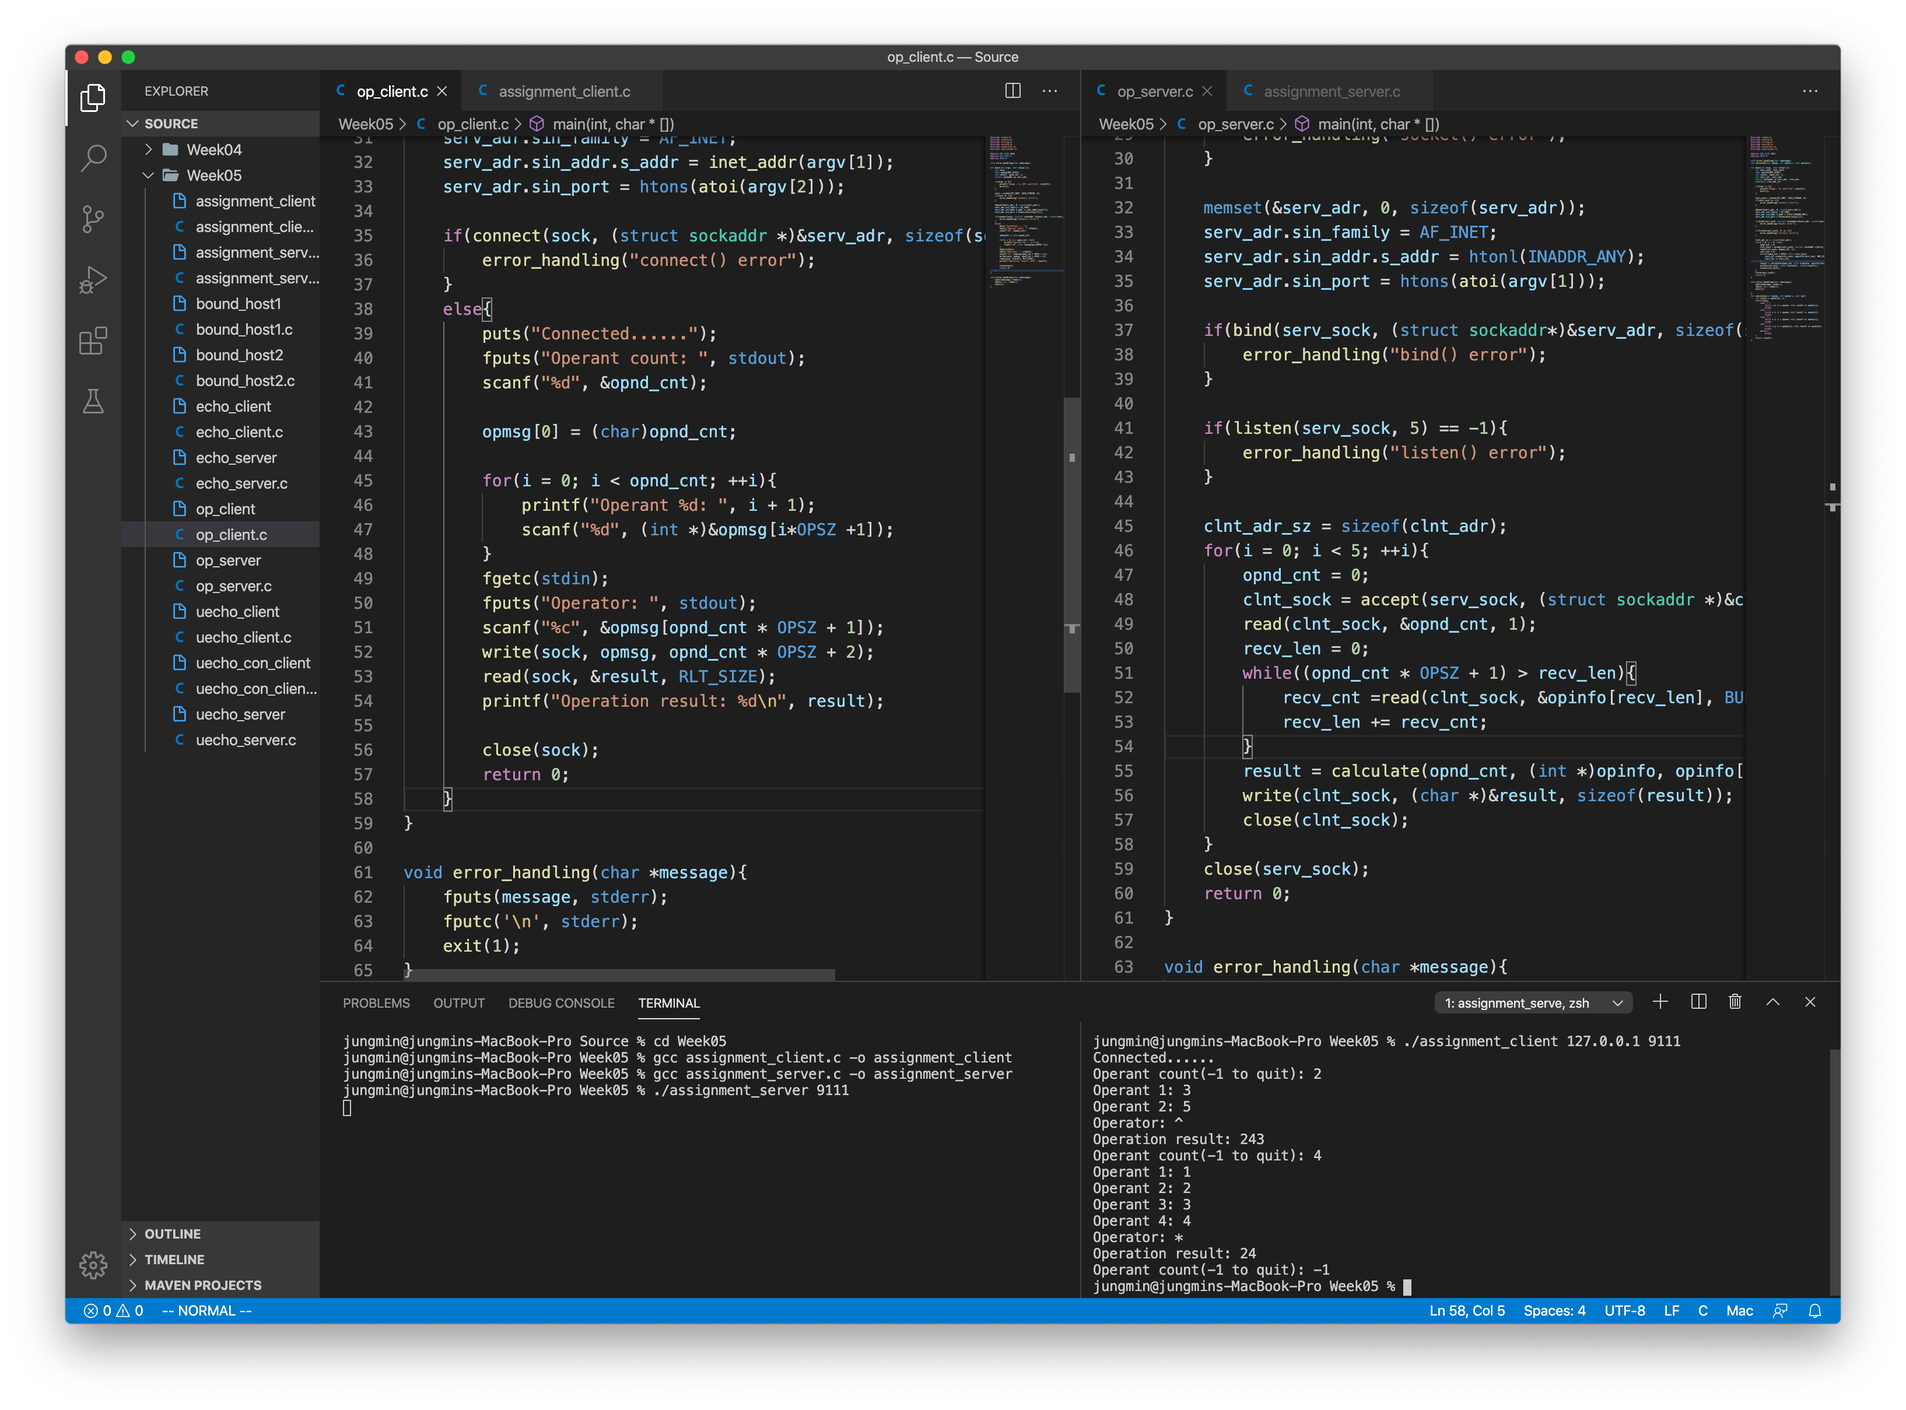
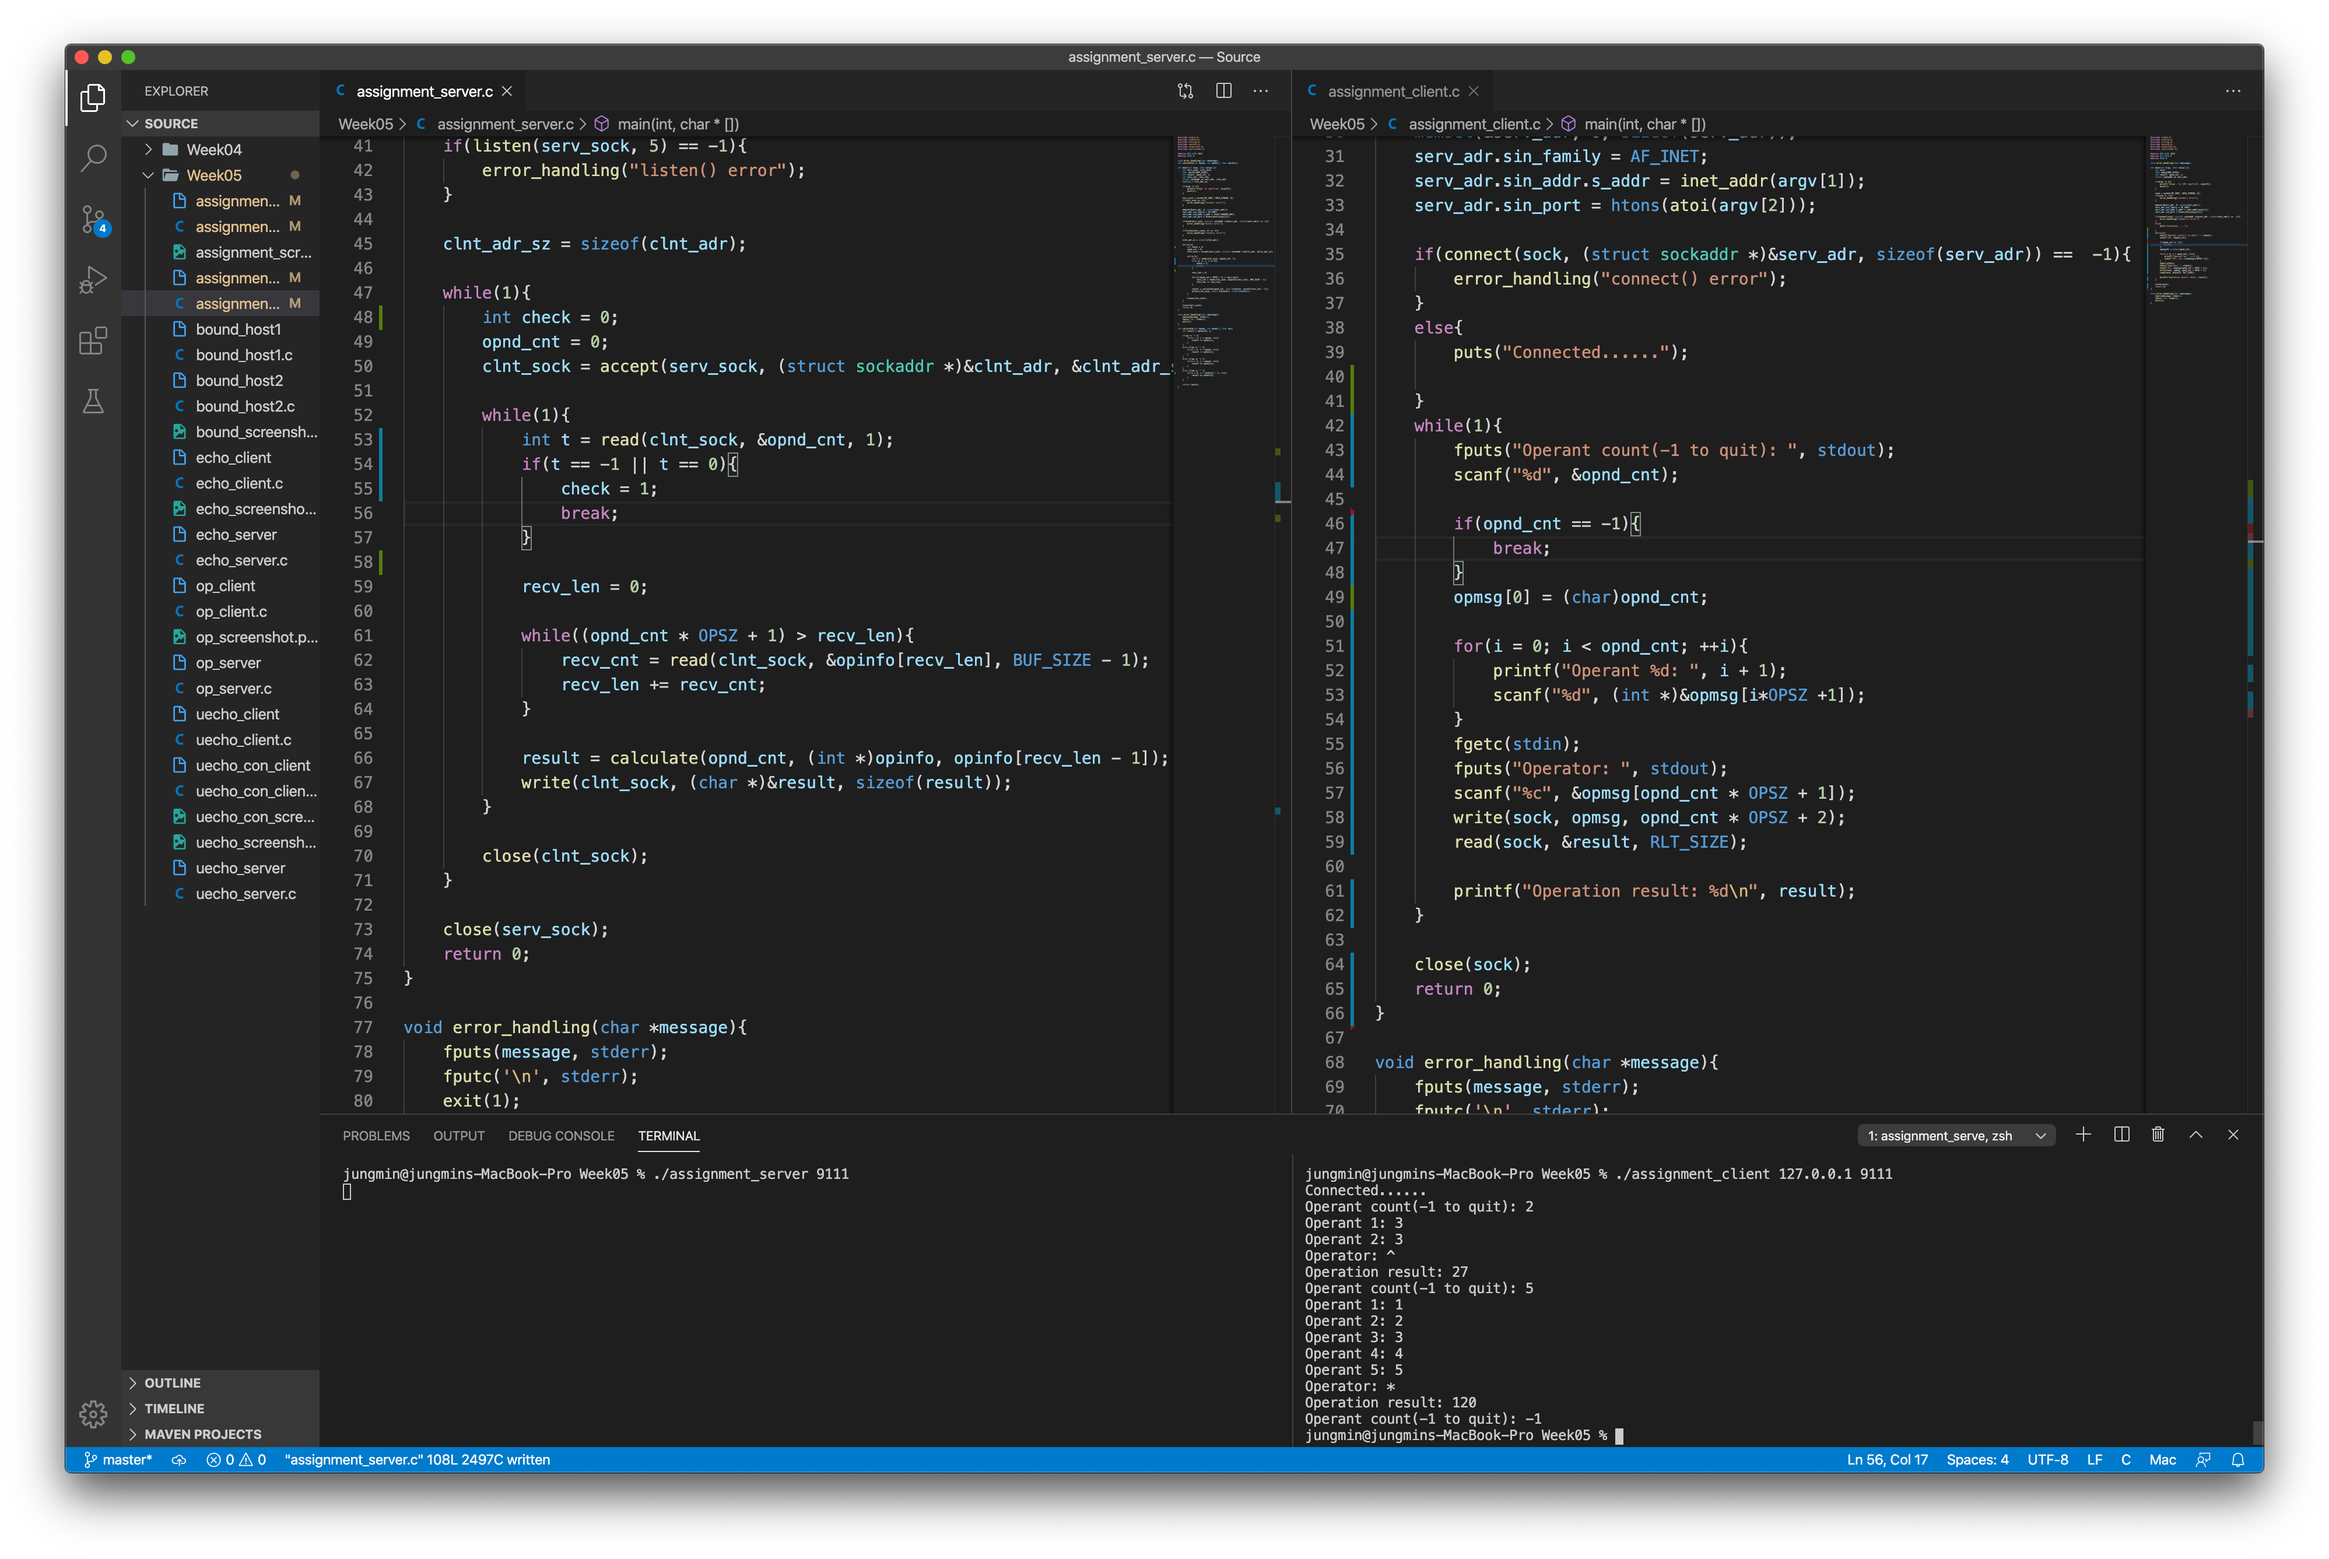
Week 5 assignment final

diff --git a/Week05/assignment_client.c b/Week05/assignment_client.c
@@ -37,33 +37,32 @@ int main(int argc, char *argv[]){
     }
     else{
         puts("Connected......");
-        while(1){
-            fputs("Operant count(-1 to quit): ", stdout);
-            scanf("%d", &opnd_cnt);
 
-            opmsg[0] = (char)opnd_cnt;
-
-            if(opnd_cnt == -1){
-                write(sock, opmsg, 1);
-                break;
-            }
-            
-            for(i = 0; i < opnd_cnt; ++i){
-                printf("Operant %d: ", i + 1);
-                scanf("%d", (int *)&opmsg[i*OPSZ +1]);
-            }
-            fgetc(stdin);
-            fputs("Operator: ", stdout);
-            scanf("%c", &opmsg[opnd_cnt * OPSZ + 1]);
-            write(sock, opmsg, opnd_cnt * OPSZ + 2);
-            read(sock, &result, RLT_SIZE);
-
-            printf("Operation result: %d\n", result);
-        }
-
-        close(sock);
-        return 0;
     }
+    while(1){
+        fputs("Operant count(-1 to quit): ", stdout);
+        scanf("%d", &opnd_cnt);
+
+        if(opnd_cnt == -1){
+            break;
+        }
+        opmsg[0] = (char)opnd_cnt;
+
+        for(i = 0; i < opnd_cnt; ++i){
+            printf("Operant %d: ", i + 1);
+            scanf("%d", (int *)&opmsg[i*OPSZ +1]);
+        }
+        fgetc(stdin);
+        fputs("Operator: ", stdout);
+        scanf("%c", &opmsg[opnd_cnt * OPSZ + 1]);
+        write(sock, opmsg, opnd_cnt * OPSZ + 2);
+        read(sock, &result, RLT_SIZE);
+
+        printf("Operation result: %d\n", result);
+    }
+
+    close(sock);
+    return 0;
 }
 
 void error_handling(char *message){

diff --git a/Week05/assignment_server.c b/Week05/assignment_server.c
@@ -45,15 +45,17 @@ int main(int argc, char *argv[]){
     clnt_adr_sz = sizeof(clnt_adr);
 
     while(1){
+        int check = 0;
         opnd_cnt = 0;
         clnt_sock = accept(serv_sock, (struct sockaddr *)&clnt_adr, &clnt_adr_sz);
 
         while(1){
-            read(clnt_sock, &opnd_cnt, 1);
-            if(opnd_cnt == -1){
-                printf("opnd_cnt = -1 break\n");
+            int t = read(clnt_sock, &opnd_cnt, 1);
+            if(t == -1 || t == 0){
+                check = 1;
                 break;
             }
+
             recv_len = 0;
 
             while((opnd_cnt * OPSZ + 1) > recv_len){
@@ -97,7 +99,7 @@ int calculate(int opnum, int opnds[], char op){
         }
     }
     else if(op == '^'){
-        for(i = 0; i < opnds[1]; ++i){
+        for(i = 0; i < opnds[1] - 1; ++i){
             result *= opnds[0];
         }
     }
